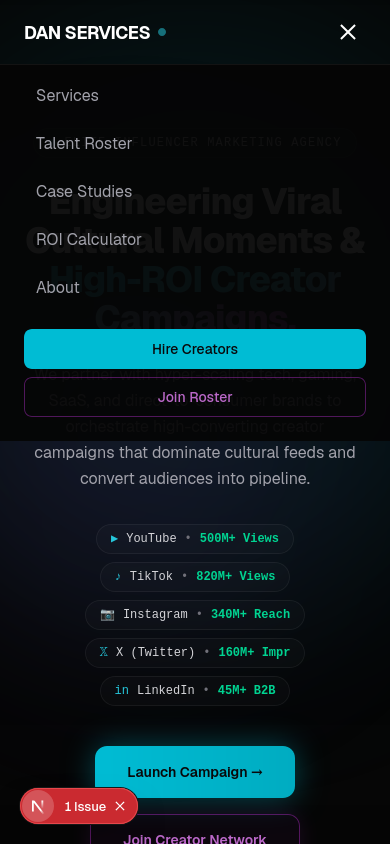
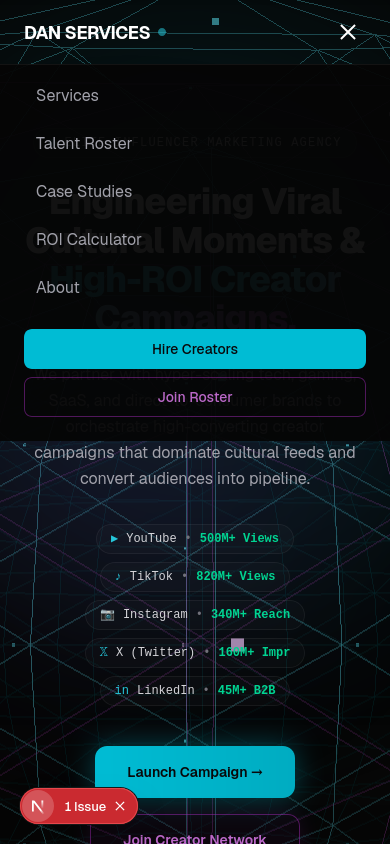
feat: 3D hero on phones — idle-deferred, mobile quality mode; desktop unchanged

diff --git a/src/components/ClientHero.tsx b/src/components/ClientHero.tsx
@@ -1,16 +1,31 @@
 "use client";
 
-import { Canvas, useFrame } from "@react-three/fiber";
+import { Canvas, useFrame, useThree } from "@react-three/fiber";
 import { useRef, useState, useEffect } from "react";
 import * as THREE from "three";
 
-function NetworkSynergyCenterpiece({ mousePosition, isLowEnd }: { mousePosition: { x: number; y: number }; isLowEnd: boolean }) {
+// Mobile quality mode: coarser geometry, lower pixel ratio, no antialias,
+// and a 30fps render cap (below). Same scene, cheaper to draw.
+function NetworkSynergyCenterpiece({
+  mousePosition,
+  isLowEnd,
+  isMobile,
+}: {
+  mousePosition: { x: number; y: number };
+  isLowEnd: boolean;
+  isMobile: boolean;
+}) {
   const groupRef = useRef<THREE.Group>(null);
   const ring1Ref = useRef<THREE.Mesh>(null);
   const ring2Ref = useRef<THREE.Mesh>(null);
   const ring3Ref = useRef<THREE.Mesh>(null);
 
   const radius = 2.6;
+  // detail: high (desktop) / medium (phone) / low (weak device)
+  const dMain = isLowEnd ? 2 : isMobile ? 2 : 3;
+  const dInner = isLowEnd ? 1 : isMobile ? 1 : 2;
+  const dSwarm = isLowEnd ? 2 : isMobile ? 2 : 4;
+  const dViolet = isMobile ? 1 : 2;
 
   useFrame((_state, delta) => {
     if (groupRef.current) {
@@ -39,7 +54,7 @@ function NetworkSynergyCenterpiece({ mousePosition, isLowEnd }: { mousePosition:
     <group ref={groupRef}>
       {/* Primary Cybernetic Sphere */}
       <mesh>
-        <icosahedronGeometry args={[radius, isLowEnd ? 2 : 3]} />
+        <icosahedronGeometry args={[radius, dMain]} />
         <meshBasicMaterial
           wireframe
           color="#00bcd4"
@@ -50,7 +65,7 @@ function NetworkSynergyCenterpiece({ mousePosition, isLowEnd }: { mousePosition:
 
       {/* Inner Radiant Core Sphere */}
       <mesh>
-        <icosahedronGeometry args={[radius * 0.92, isLowEnd ? 1 : 2]} />
+        <icosahedronGeometry args={[radius * 0.92, dInner]} />
         <meshBasicMaterial
           wireframe
           color="#ab47bc"
@@ -90,7 +105,7 @@ function NetworkSynergyCenterpiece({ mousePosition, isLowEnd }: { mousePosition:
 
       {/* Swarm Points representing creator nodes */}
       <points>
-        <icosahedronGeometry args={[radius * 1.15, isLowEnd ? 2 : 4]} />
+        <icosahedronGeometry args={[radius * 1.15, dSwarm]} />
         <pointsMaterial
           color="#00bcd4"
           size={0.04}
@@ -102,7 +117,7 @@ function NetworkSynergyCenterpiece({ mousePosition, isLowEnd }: { mousePosition:
 
       {/* Violet Nodes */}
       <points>
-        <icosahedronGeometry args={[radius * 1.4, 2]} />
+        <icosahedronGeometry args={[radius * 1.4, dViolet]} />
         <pointsMaterial
           color="#ce93d8"
           size={0.05}
@@ -115,16 +130,33 @@ function NetworkSynergyCenterpiece({ mousePosition, isLowEnd }: { mousePosition:
   );
 }
 
+// With frameloop="demand" the canvas only renders when invalidated; pacing
+// invalidations at ~30fps halves the per-second GPU/CPU cost on phones.
+function RenderPacer({ intervalMs }: { intervalMs: number }) {
+  const invalidate = useThree((state) => state.invalidate);
+  useEffect(() => {
+    const id = setInterval(() => invalidate(), intervalMs);
+    return () => clearInterval(id);
+  }, [invalidate, intervalMs]);
+  return null;
+}
+
 export default function ClientHero() {
   const [mousePosition, setMousePosition] = useState({ x: 0, y: 0 });
   // This component is loaded via next/dynamic with { ssr: false }, so it only
-  // ever renders on the client — isLowEnd can be computed lazily on first render.
+  // ever renders on the client — device flags can be computed lazily on
+  // first render.
   const [isLowEnd] = useState(() => {
     if (typeof navigator === "undefined") return false;
     const hardwareConcurrency = navigator.hardwareConcurrency || 8;
     const isMobile = /Android|webOS|iPhone|iPad|iPod|BlackBerry|IEMobile|Opera Mini/i.test(navigator.userAgent);
     return hardwareConcurrency < 2 && isMobile;
   });
+  // Phone viewport → cheaper quality mode (Hero defers the bundle fetch
+  // until the page is idle on phones; desktop behavior is unchanged).
+  const [isMobileViewport] = useState(
+    () => typeof window !== "undefined" && window.matchMedia("(max-width: 767px)").matches
+  );
   // False until the hero intersects the viewport; the WebGL canvas only
   // mounts while visible so no GPU work happens offscreen or in hidden tabs.
   const [isSceneActive, setIsSceneActive] = useState(false);
@@ -194,14 +226,16 @@ export default function ClientHero() {
         <Canvas
           camera={{ position: [0, 0, 6.2], fov: 48 }}
           style={{ background: "transparent" }}
-          gl={{ alpha: true, antialias: true, powerPreference: "high-performance" }}
-          dpr={[1, 1.5]}
+          gl={{ alpha: true, antialias: !isMobileViewport, powerPreference: "high-performance" }}
+          dpr={isMobileViewport ? [1, 1.25] : [1, 1.5]}
+          frameloop={isMobileViewport ? "demand" : "always"}
         >
+          {isMobileViewport && <RenderPacer intervalMs={33} />}
           <ambientLight intensity={0.6} />
           <directionalLight position={[4, 6, 6]} intensity={1.2} />
           <pointLight position={[-5, -5, -2]} color="#9c27b0" intensity={1} />
           <pointLight position={[5, 5, 2]} color="#00bcd4" intensity={1} />
-          <NetworkSynergyCenterpiece mousePosition={mousePosition} isLowEnd={isLowEnd} />
+          <NetworkSynergyCenterpiece mousePosition={mousePosition} isLowEnd={isLowEnd} isMobile={isMobileViewport} />
         </Canvas>
       )}
     </div>

diff --git a/src/components/Hero.tsx b/src/components/Hero.tsx
@@ -1,14 +1,15 @@
 "use client";
 
 import dynamic from 'next/dynamic';
-import { useSyncExternalStore } from 'react';
+import { useEffect, useSyncExternalStore } from 'react';
 import { useLeadModals } from '@/components/LeadModalProvider';
 
 const ClientHero = dynamic(() => import('@/components/ClientHero'), { ssr: false });
 
-// The 3D hero pulls a ~240KB three.js bundle. Phones and low-core devices
-// never show it anyway, so gate it here — the chunk isn't even requested
-// unless the device is a capable desktop (>=4 cores, viewport >= md).
+// The 3D hero pulls a ~240KB three.js bundle. It requires a capable device
+// (>=4 CPU cores). Desktops load it immediately; phones load it too but the
+// chunk isn't even requested until the page has gone idle, so first paint
+// and LCP never compete with it. Low-core devices never load it at all.
 const SMALL_SCREEN = '(max-width: 767px)';
 
 function subscribeToScreen(cb: () => void) {
@@ -17,13 +18,48 @@ function subscribeToScreen(cb: () => void) {
   return () => mq.removeEventListener('change', cb);
 }
 
-function getCapableOf3D() {
-  return navigator.hardwareConcurrency >= 4 && !window.matchMedia(SMALL_SCREEN).matches;
+function getCoresCapable() {
+  return navigator.hardwareConcurrency >= 4;
 }
+
+function getIsPhone() {
+  return window.matchMedia(SMALL_SCREEN).matches;
+}
+
+// A tiny external store for "the page is idle now". Exposed through
+// useSyncExternalStore so no state is set inside an effect.
+const idle3D = {
+  value: false,
+  started: false,
+  listeners: new Set<() => void>(),
+  start() {
+    if (this.started || typeof window === 'undefined') return;
+    this.started = true;
+    const done = () => {
+      this.value = true;
+      this.listeners.forEach((l) => l());
+    };
+    if (typeof window.requestIdleCallback === 'function') {
+      window.requestIdleCallback(done, { timeout: 3000 });
+    } else {
+      window.setTimeout(done, 2000);
+    }
+  },
+  subscribe(listener: () => void) {
+    idle3D.listeners.add(listener);
+    return () => idle3D.listeners.delete(listener);
+  },
+};
 
 export default function Hero() {
   const { openBrandModal, openCreatorModal } = useLeadModals();
-  const capableOf3D = useSyncExternalStore(subscribeToScreen, getCapableOf3D, () => false);
+  const coresCapable = useSyncExternalStore(subscribeToScreen, getCoresCapable, () => false);
+  const isPhone = useSyncExternalStore(subscribeToScreen, getIsPhone, () => false);
+  const isIdle = useSyncExternalStore(idle3D.subscribe, () => idle3D.value, () => false);
+
+  useEffect(() => {
+    idle3D.start();
+  }, []);
   const platformBadges = [
     { platform: "YouTube", stat: "500M+ Views", icon: "▶", color: "hover:border-red-500/40" },
     { platform: "TikTok", stat: "820M+ Views", icon: "♪", color: "hover:border-cyan-500/40" },
@@ -34,8 +70,8 @@ export default function Hero() {
 
   return (
     <section className="relative min-h-screen w-full overflow-hidden flex flex-col justify-between" id="hero">
-      {/* 3D Canvas Background — desktop-class devices only (see gate above) */}
-      {capableOf3D && <ClientHero />}
+      {/* 3D Canvas Background — capable devices; phones defer until idle */}
+      {coresCapable && (!isPhone || isIdle) && <ClientHero />}
 
       {/* Atmospheric gradient overlay */}
       <div className="absolute inset-0 z-[1] bg-gradient-to-b from-background/40 via-background/20 to-background pointer-events-none" />

diff --git a/AGENTS.md b/AGENTS.md
@@ -33,7 +33,7 @@ Marketing site for an influencer marketing agency. Next.js 16 (App Router, Turbo
 - **Modals** must use Headless UI `Dialog` (focus trap, Escape, scroll lock). While a modal is open, `LeadModalProvider` pauses Lenis via `stopScroll()`.
 - **Scrolling**: Lenis owns smooth scroll (`anchors: { offset: -64 }`); do NOT add `scroll-behavior: smooth` CSS — it conflicts. Section links point to `/#hash` and smooth-scroll only when already on `/`.
 - **Images**: `next/image` everywhere (remote Unsplash avatars/thumbnails are the norm, `sizes` required). Plain `<img>` should not be reintroduced.
-- **Client-heavy pages**: hero 3D is gated twice. `Hero` renders `ClientHero` (dynamic, `ssr: false`) only on capable devices (≥4 CPU cores AND viewport ≥768px, via `useSyncExternalStore`) so phones never download the ~240KB three.js bundle; `ClientHero` additionally mounts its canvas only while the hero intersects the viewport and the tab is visible. `CustomCursor` drives DOM refs in rAF instead of per-mousemove `setState`. Preserve all three patterns — they are deliberate perf guards (mobile Lighthouse 97).
+- **Client-heavy pages**: hero 3D is device-gated. `Hero` renders `ClientHero` (dynamic, `ssr: false`) on capable devices (≥4 CPU cores via `useSyncExternalStore`); **phones load it too, but the chunk isn't requested until the page goes idle** (`idle3D` store — `requestIdleCallback` with timeout) so it never competes with LCP. `ClientHero` additionally mounts its canvas only while the hero intersects the viewport and the tab is visible, and runs a mobile quality mode (reduced geometry detail, `dpr` ≤1.25, no antialias, `frameloop="demand"` paced at ~30fps by `RenderPacer`). `CustomCursor` drives DOM refs in rAF instead of per-mousemove `setState`. Preserve these patterns — they are deliberate perf guards (enabling 3D on phones costs ~30 lab Lighthouse points to TBT; the idle defer keeps LCP/field metrics intact).
 - **three.js is pinned `^0.182.0`** — do not bump casually: r183+ deprecates `THREE.Clock`, and react-three-fiber still uses it, logging a warning per page load. Re-test the console after any three/R3F upgrade.
 - **layout.tsx hydration scrubber**: the inline `extensionAttrScrubber` script strips browser-extension attributes (`bis_*`, `__processed_*`) before hydration. Removing it reintroduces false hydration-mismatch errors in dev (Bitwarden etc.).
 - **Accessibility**: axe-clean WCAG 2.1 AA — keep it. Buttons on solid cyan `bg-primary-500` use `text-gray-950` (white on cyan is 2.25:1 — fails); `text-gray-500` on dark backgrounds is usually too low (4.2:1), use `gray-400`. Form controls need real label associations (see the ROI slider's `htmlFor`/`aria-live` pattern).
